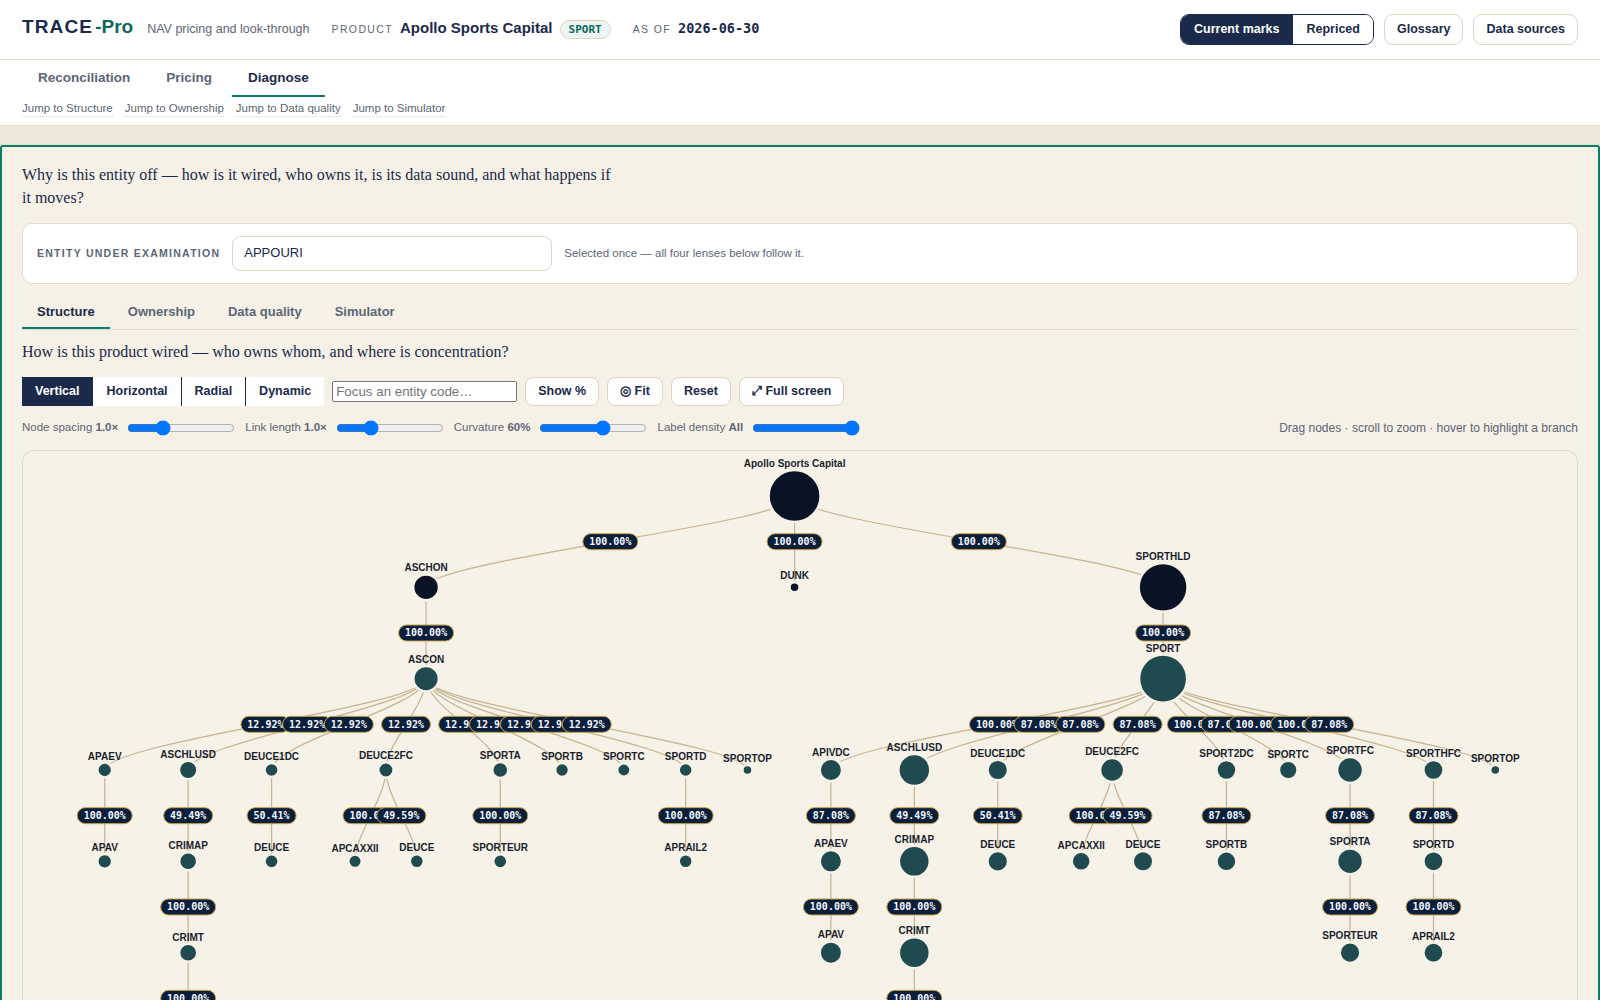
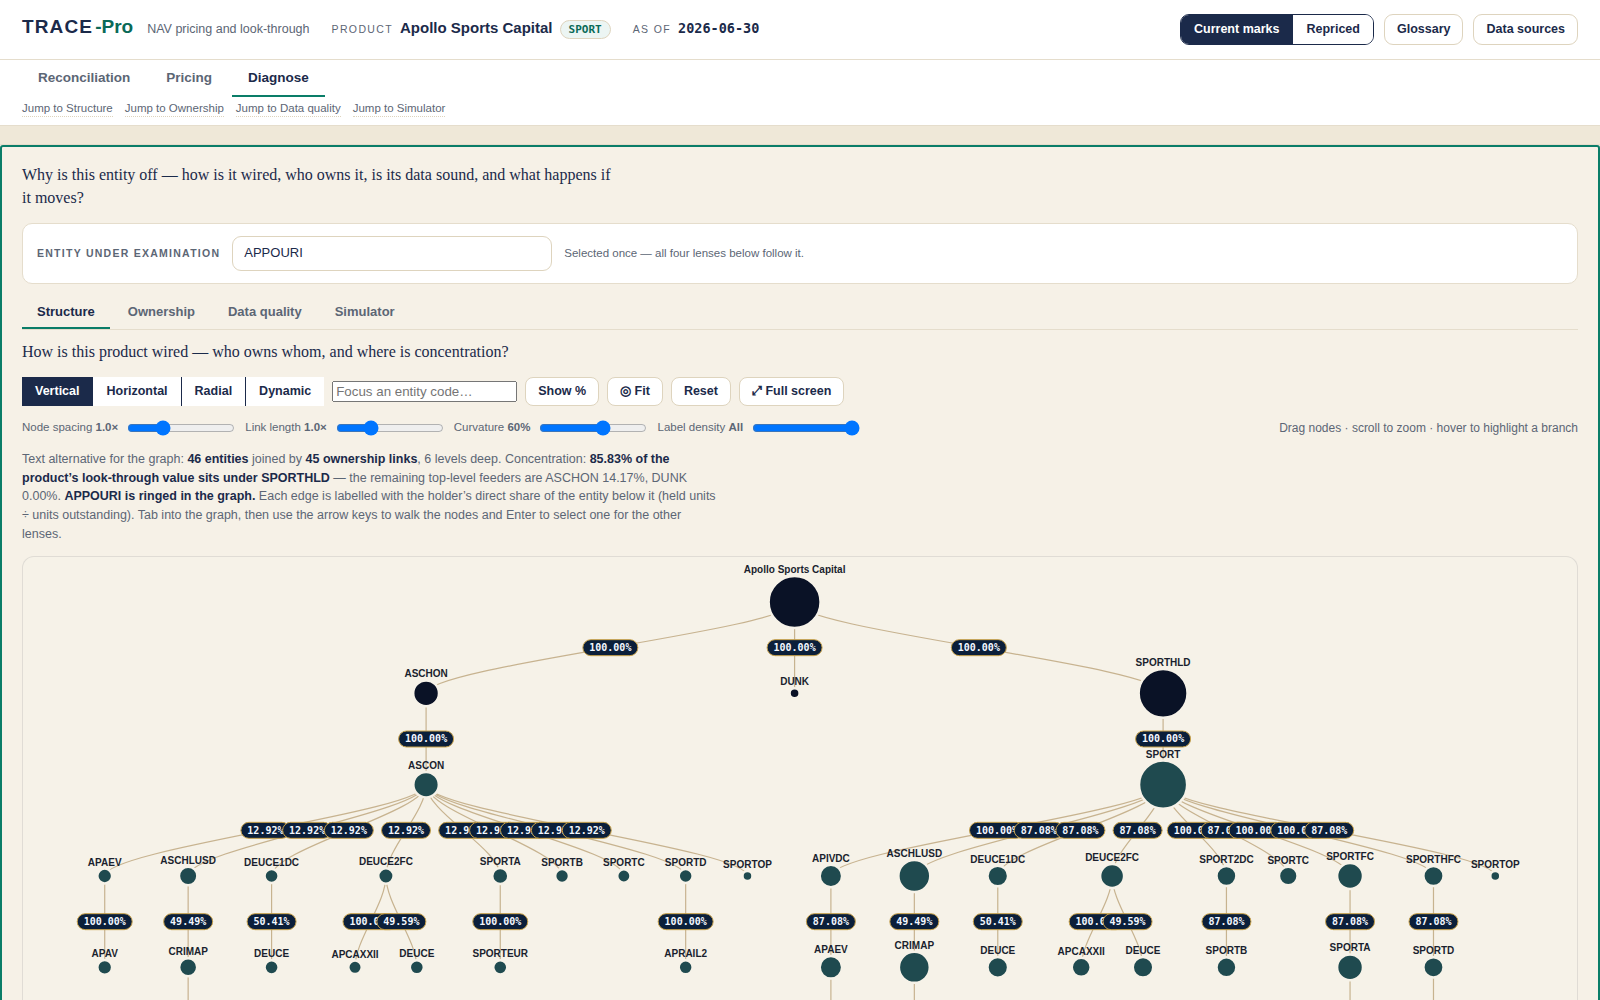
Fix 5 Playwright failures: 4 in my tests, 1 real UX finding
36 passed, 5 failed on the first run. Four were defects in the tests I wrote, one
was a genuine UX problem in the app.

MY TEST BUGS:
- R2's crawler matched short screen codes as SUBSTRINGS, so `iss` fired inside
  "Missing NAV" and "issues". A crawler that cries wolf on ordinary English is
  worse than no crawler. Codes now match as whole words; multi-word labels stay
  substrings, because those are never anything but labels. Precisely the same
  lesson as the rename-map term list, in mirror image.
- R7 counted `.glossary-card`; the drawer uses the original's `.glscard`, which is
  also what keeps the frozen harness's selectors working.
- The data-quality test counted `.accordion`; the lens renders `.dq-bucket`.
- The Structure test asserted the basis label was INSIDE the figure element; it is
  a sibling line beside it, which is the better arrangement.

THE REAL FINDING (R5):
The Structure lens put its graph stage above its caption, and at 1600x1000 the
stage falls below the fold once the question, subject bar, lens tabs and controls
sit above it — so the primary answer needed a scroll. The caption is the answer:
it states the entity and link counts and where concentration lies. The graph is how
you explore it. Caption now renders above the stage, which also makes it the
graph's text alternative rather than an afterthought below it.

STATIC: build 0, tsc 0, eslint 0, structure PASSED.

Claude-Session: https://claude.ai/code/session_01StHC4LguM34PP1WTgPHWc4

diff --git a/trace-pro/tests/e2e/rubric.spec.ts b/trace-pro/tests/e2e/rubric.spec.ts
@@ -20,12 +20,21 @@ import {
   expectClean,
 } from './helpers.js';
 
-/** Tokens that must never appear as bare, unexplained user-visible text outside the glossary. */
-const ABBREVIATION_DENYLIST = [
-  'rfx', 'gls', 'iss', 'mv100', 'dcN', 'ltv', 'gq', 'nonav', 'in tol',
-  'scen a', 'scen b', 'Derived MV', 'Revised MV', 'Publish px', 'Current px', 'Revised px',
-  'Applied px', 'Δ Pricing', 'Δ Non-position', 'Repricing P&L', 'Immediate %', 'Applied %',
+/**
+ * Tokens that must never appear as bare, unexplained user-visible text outside the glossary.
+ *
+ * Short screen codes are matched as WHOLE WORDS. As substrings they are false positives — `iss`
+ * hides inside "Missing" and "issues", `own` inside "ownership", `str` inside "structure" — and a
+ * crawler that cries wolf on ordinary English is worse than no crawler. Multi-word labels are
+ * matched as substrings, because they are never anything but labels.
+ */
+const CODE_TOKENS = ['lt', 'rfx', 'gls', 'iss', 'str', 'sim', 'own', 'gq', 'ltv', 'dcN', 'mv100', 'nonav'];
+const PHRASE_TOKENS = [
+  'in tol', 'scen a', 'scen b', 'Derived MV', 'Revised MV', 'Publish px', 'Current px',
+  'Revised px', 'Applied px', 'Δ Pricing', 'Δ Non-position', 'Repricing P&L', 'Immediate %',
+  'Applied %',
 ];
+const ABBREVIATION_DENYLIST = [...CODE_TOKENS, ...PHRASE_TOKENS];
 
 test.describe('R1 — every screen states the question it answers', () => {
   for (const route of ROUTES) {
@@ -61,15 +70,20 @@ test('R2 — no bare abbreviation survives outside the glossary', async ({ page 
         while (node) {
           const text = (node.textContent ?? '').replace(/\s+/g, ' ').trim();
           const parent = node.parentElement;
-          const inGlossary = !!parent?.closest('.glossary-card, .glossary-section, #drawer-host');
+          const inGlossary = !!parent?.closest('.glscard, .glssec, #drawer-host');
           if (text && !inGlossary) parts.push(text);
           node = walker.nextNode();
         }
       }
       return parts;
     });
-    for (const token of ABBREVIATION_DENYLIST) {
+    for (const token of PHRASE_TOKENS) {
       const hit = visible.find((t) => t.includes(token));
+      if (hit) findings.push({ route: route.id, token, context: hit.slice(0, 90) });
+    }
+    for (const token of CODE_TOKENS) {
+      const word = new RegExp(`(^|[^A-Za-z0-9])${token}([^A-Za-z0-9]|$)`);
+      const hit = visible.find((t) => word.test(t));
       if (hit) findings.push({ route: route.id, token, context: hit.slice(0, 90) });
     }
   }
@@ -157,7 +171,7 @@ test('R7 — the glossary is one action from every screen, and keeps state', asy
     await settled(page);
     const drawer = page.locator('#drawer-host .drawer');
     await expect(drawer, `${route.id}: glossary must open in one action`).toBeVisible();
-    const terms = await page.locator('.glossary-card').count();
+    const terms = await page.locator('.glscard').count();
     expect(terms, 'all 35 terms must be present').toBe(35);
     await page.keyboard.press('Escape');
     await settled(page);

diff --git a/trace-pro/tests/e2e/screens.spec.ts b/trace-pro/tests/e2e/screens.spec.ts
@@ -96,7 +96,7 @@ test('Data quality: the five buckets and their counts', async ({ page }) => {
   expect(await parityValue(page, 'data_quality.high_count')).toBe('31');
   expect(await parityValue(page, 'data_quality.medium_count')).toBe('52');
   expect(await parityValue(page, 'data_quality.low_count')).toBe('22');
-  expect(await page.locator('.accordion').count()).toBe(5);
+  expect(await page.locator('.dq-bucket').count()).toBe(5);
 });
 
 test('Simulator: the staged reprice completes and lands on the waterfall, to the cent', async ({ page }) => {
@@ -120,8 +120,9 @@ test('Structure: the full-screen readout shows the fund-entity NAV and labels it
   const readout = await parityValue(page, 'structure.fullscreen.product_nav');
   // Deliberately the fund-entity basis, $2,785.79 below the sum-of-feeders NAV. See spec 1.8.1.
   expect(readout).toContain('2,062,196,050.07');
-  const basis = await page.locator('[data-parity="structure.fullscreen.product_nav"]').textContent();
-  expect(basis?.toLowerCase()).toMatch(/fund-entity|entity basis/);
+  // The basis is stated on its own line beside the figure, not inside it.
+  const region = await page.locator('#structure-readout, .readout, #structure-stage').first().textContent();
+  expect(region?.toLowerCase()).toMatch(/fund-entity|entity basis/);
 });
 
 test('exports: all four produce a non-empty file', async ({ page }) => {

diff --git a/trace-pro/src/ui/screens/diagnose/structure/index.ts b/trace-pro/src/ui/screens/diagnose/structure/index.ts
@@ -106,9 +106,13 @@ export function mountStructureLens(host: HTMLElement, store: Store): () => void 
     host,
     el('p', { class: 'screen-question', id: 'structure-question', text: STRUCTURE_QUESTION }),
     el('div', { id: 'structure-controls' }),
+    // The caption sits ABOVE the graph deliberately. It states the counts and where concentration
+    // lies, which is the answer a controller came for; the graph is how they explore it. At
+    // 1600x1000 a stage placed here would fall below the fold, so the answer would need a scroll
+    // (rubric R5). It also serves as the graph's text alternative for anyone not using the SVG.
+    el('p', { class: 'screen-help', id: 'structure-caption' }),
     el('div', { id: 'structure-stage', style: STRUCTURE_STAGE_STYLE }),
     structureRenderLegend(),
-    el('p', { class: 'screen-help', id: 'structure-caption' }),
     el('p', { class: 'screen-help', id: 'structure-basis' })
   );
 
